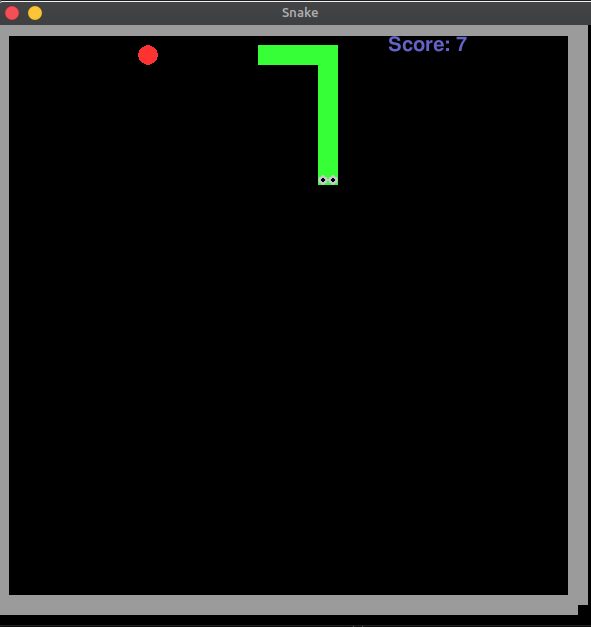
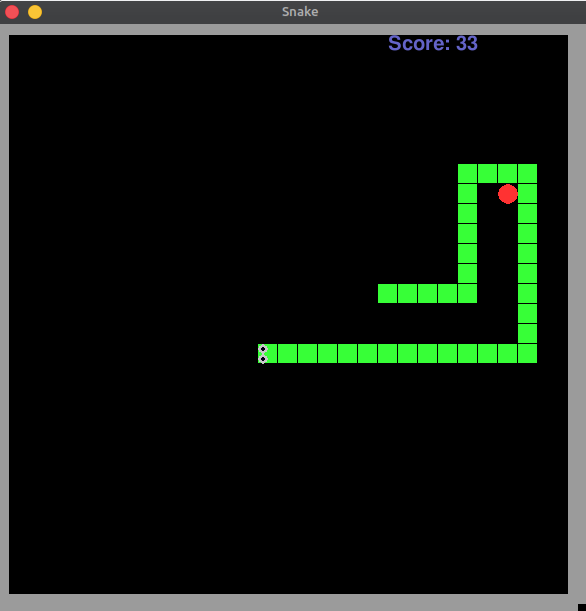
Add files via upload

diff --git a/snake.py b/snake.py
@@ -3,97 +3,110 @@ import random
 pygame.init()
 WIDTH = 600
 HEIGHT = 600
-win = pygame.display.set_mode((WIDTH,HEIGHT))
+win = pygame.display.set_mode((WIDTH, HEIGHT))
 font = pygame.font.SysFont("comicsans", 30, True)
 font_end = pygame.font.SysFont("comicsans", 50, True)
 pygame.display.set_caption("Snake")
 clock = pygame.time.Clock()
-
-
-width = 20
-height = 20
-vel = 1
-
-
+# size of a block in snake's body
+width = 19
+height = 19
 
 
 def move(body, direction, apple, score):
-    res=''
+    res = ''
+    # dictionary to translate direction into vector
     moves = {'L': [-1, 0],
              'R': [1, 0],
              'U': [0, -1],
              'D': [0, 1],
              }
-    end_x,end_y=body[-1]
-    if len(body)>1:
-        for i in range (len(body)-1,0,-1):
-            body[i]=body[i-1].copy()
+    # find a place to put a new block if the snake extends
+    end_x, end_y = body[-1]
 
-    body[0][0]=body[0][0] + moves[direction][0]*vel
-    body[0][1] = body[0][1] + moves[direction][1] * vel
+    # move - every block follows the previous one
+    if len(body) > 1:
+        for i in range(len(body)-1, 0, -1):
+            body[i] = body[i-1].copy()
+    # head moves depending on direction
+    body[0][0] = body[0][0] + moves[direction][0]
+    body[0][1] = body[0][1] + moves[direction][1]
+    # check on collision with itself
     if body[0] in body[1:]:
         res = 'You hit yourself and died !'
-    if body[0][0]<1 or body[0][0]>27 or body[0][1]<1 or body[0][1]>27:
+    # check if we hit the wall
+    if body[0][0] < 1 or body[0][0] > 27 or body[0][1] < 1 or body[0][1] > 27:
         res = 'You hit the wall and died !'
-        print (body)
-
+    # check on collision with an apple
     if list(apple) in body:
-        body.append([end_x,end_y])
+        body.append([end_x, end_y])
         score += 1
         apple = set_apple(body)
 
-    return body,apple,score,res
+    return body, apple, score, res
 
-def blit_text(text):
-    text = font_end.render(str(text),1, (200, 100, 100))  # Arguments are: text, anti-aliasing, color
+
+def end_of_game(text):
+    # print text and wait 3 sec
+    text = font_end.render(str(text), 1, (200, 100, 100))
     win.blit(text, (30, 300))
     pygame.display.update()
     pygame.time.delay(3000)
 
-def redraw(body,apple,score,direction):
+
+def redraw(body, apple, score, direction):
+    # clear screen
     win.fill((0, 0, 0))
-    eyes = { 'L': ((5, 5), (5, 15)),
-             'R': ((15, 5), (15, 15)),
-             'U': ((15, 5), (5, 5)),
-             'D': ((15, 15), (5, 15)),
-             }
-    pygame.draw.rect(win, (155, 155, 155), (0, 0, WIDTH-20, HEIGHT-20),20)
+    # dictionary for eye positions
+    eyes = {'L': ((5, 5), (5, 15)),
+            'R': ((15, 5), (15, 15)),
+            'U': ((15, 5), (5, 5)),
+            'D': ((15, 15), (5, 15)),
+            }
+    # draw the game boarder
+    pygame.draw.rect(win, (155, 155, 155), (0, 0, WIDTH-20, HEIGHT-20), 20)
+    # draw the snake body block-by-block
     for part in body:
         pygame.draw.rect(win, (55, 255, 55), (part[0]*20, part[1]*20, width, height))
-    eye1, eye2 = eyes[direction]
 
+    # define a position for both eye depending on direction
+    eye1, eye2 = eyes[direction]
     eye1_x = body[0][0]*20+eye1[0]
     eye1_y = body[0][1]*20+eye1[1]
     eye2_x = body[0][0]*20+eye2[0]
     eye2_y = body[0][1]*20+eye2[1]
-
-
-    pygame.draw.circle(win,(200,200,200),(eye1_x, eye1_y),5)
+    # and draw them
+    pygame.draw.circle(win, (200, 200, 200), (eye1_x, eye1_y), 5)
     pygame.draw.circle(win, (200, 200, 200), (eye2_x, eye2_y), 5)
-    pygame.draw.circle(win,(0,0,20),(eye1_x, eye1_y),2)
+    pygame.draw.circle(win, (0, 0, 20), (eye1_x, eye1_y), 2)
     pygame.draw.circle(win, (0, 0, 20), (eye2_x, eye2_y), 2)
-
-    pygame.draw.circle(win, (255, 50, 50), (apple[0]*20+10,apple[1]*20+10), 10)
-    text = font.render("Score: " + str(score), 1, (100, 100, 200))  # Arguments are: text, anti-aliasing, color
+    # draw the apple
+    pygame.draw.circle(win, (255, 50, 50), (apple[0]*20+10, apple[1]*20+10), 10)
+    # print score
+    text = font.render("Score: " + str(score), 1, (100, 100, 200))
     win.blit(text, (390, 10))
+    # update screen
     pygame.display.update()
 
 
 def set_apple(body):
+    # placing a new apple outside snake's body
     while True:
-        x = random.randint(1,19)
-        y = random.randint(1,19)
+        x = random.randint(1, 27)
+        y = random.randint(1, 27)
         if [x, y] not in body:
             return x, y
+
 
 def main():
     run = True
     score = 0
-    x = 5
-    y = 5
+    # starting position and direction
+    x, y = 5, 5
     direction = 'R'
+    # we start with 3-blocks body
     body = [[x, y], [x - 1, y], [x - 2, y]]
-
+    # place a new apple
     apple = set_apple(body)
     while run:
         clock.tick(8+int(score/10))
@@ -118,14 +131,16 @@ def main():
 
         if keys[pygame.K_q]:
             pygame.quit()
-
+        # move snake
         body, apple, score, res = move(body, direction, apple, score)
+        # draw screen
         redraw(body, apple, score, direction)
+        # end game if we got a signal
         if res:
-            blit_text(res)
+            end_of_game(res)
             run = False
 
-
     main()
+
 
 main()
